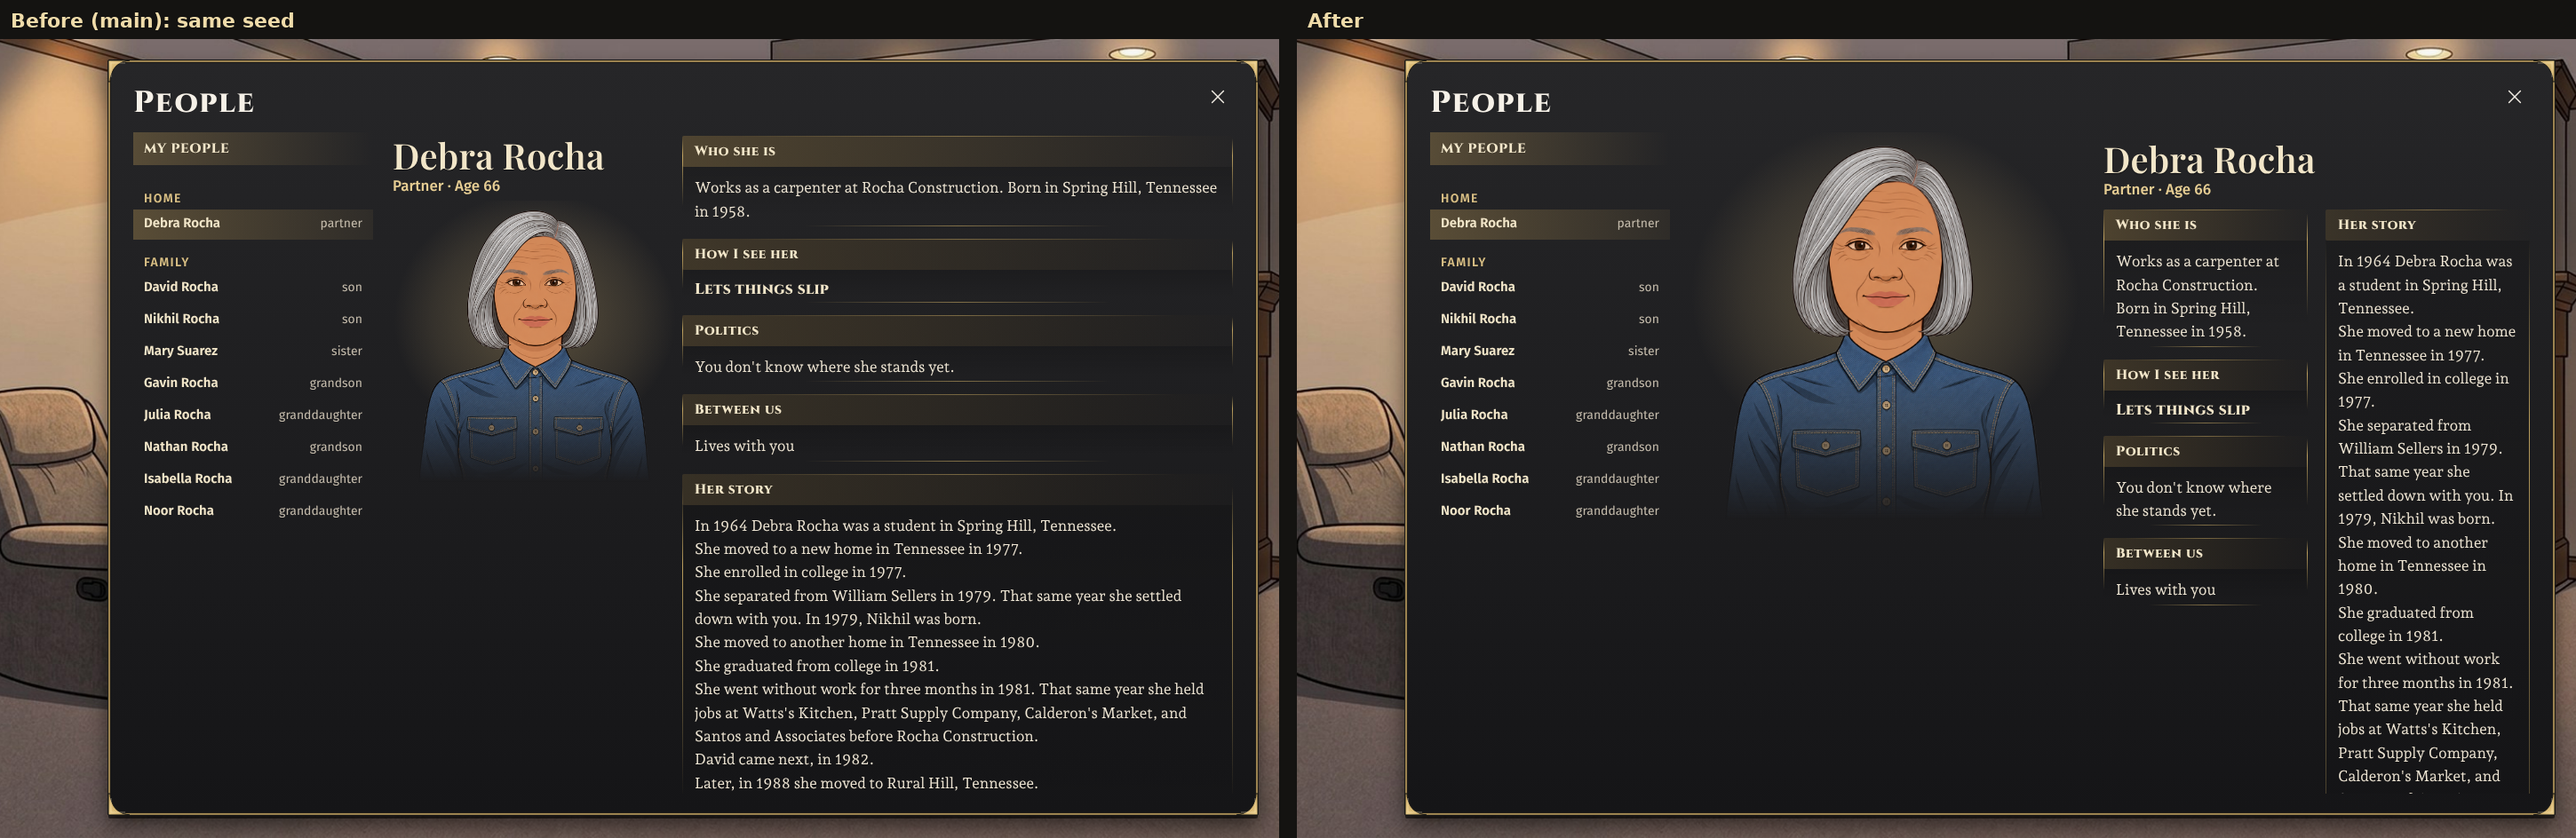
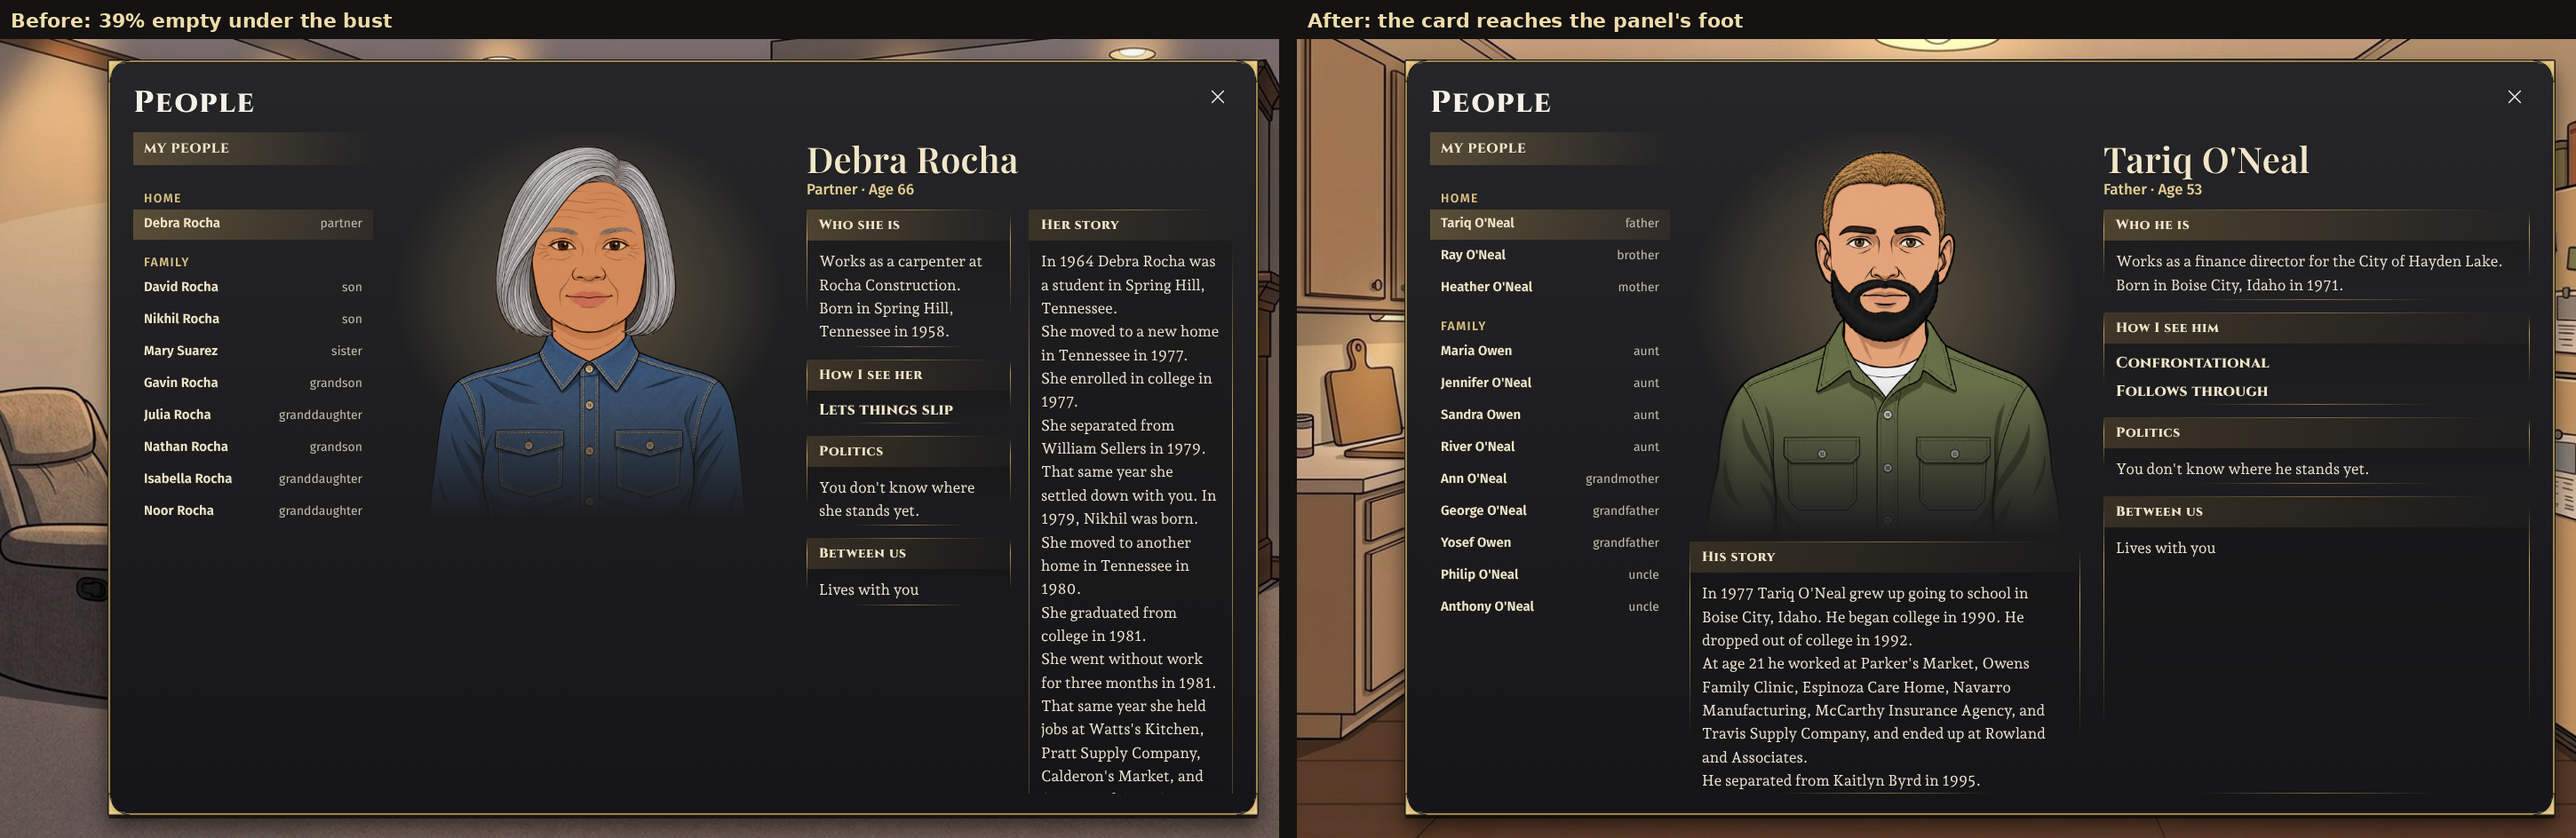
People: the card reaches the panel's foot; the story sits under the bust
The check now measures against the panel, not the card, and allows 10%
empty; on the old layout it fails at 39% under the bust.

Claude-Session: https://claude.ai/code/session_01S4WSHrQq6hFKHG4vEC5DwH

diff --git a/src/bench/play.css b/src/bench/play.css
@@ -2791,6 +2791,51 @@ body:not(.dev) .dev-only {
 .strip-screen.name-beside .mx3cols.one {
   grid-template-columns: minmax(0, 1fr);
 }
+/* The person card stands the panel's full height (owner on People, Nov 16:
+   "still lots of empty space"): each column's last section reaches the
+   panel's foot, and a long story scrolls inside its own section. */
+.roster-screen.people > .roster-page:has(.strip-screen.name-beside) {
+  display: flex;
+  flex-direction: column;
+  overflow: hidden;
+}
+.roster-screen.people > .roster-page > .strip-screen.name-beside {
+  flex: 1 1 auto;
+  min-height: 0;
+  align-items: stretch;
+}
+.strip-screen.name-beside .mx3left,
+.strip-screen.name-beside .mx3main,
+.strip-screen.name-beside .mx3col {
+  min-height: 0;
+}
+/* A column with more sections than the panel holds (dev mode adds several)
+   scrolls rather than being cut off. */
+.strip-screen.name-beside .mx3left,
+.strip-screen.name-beside .mx3col {
+  overflow-y: auto;
+  scrollbar-width: thin;
+  scrollbar-color: rgba(214, 189, 132, 0.4) transparent;
+}
+.strip-screen.name-beside .mx3cols {
+  flex: 1 1 auto;
+  min-height: 0;
+  align-items: stretch;
+}
+.strip-screen.name-beside .mx3left > .sec:last-child,
+.strip-screen.name-beside .mx3col > .sec:last-child {
+  flex: 1 1 auto;
+  min-height: 0;
+  display: flex;
+  flex-direction: column;
+}
+.strip-screen.name-beside .sec:last-child > .secbody {
+  flex: 1 1 auto;
+  min-height: 0;
+  overflow-y: auto;
+  scrollbar-width: thin;
+  scrollbar-color: rgba(214, 189, 132, 0.4) transparent;
+}
 /* Politics layouts retain the existing Kit 13 panel frame. */
 #sheet-body:has(.government-picker, .entries-rows, .screen-grid) {
   max-width: none;
